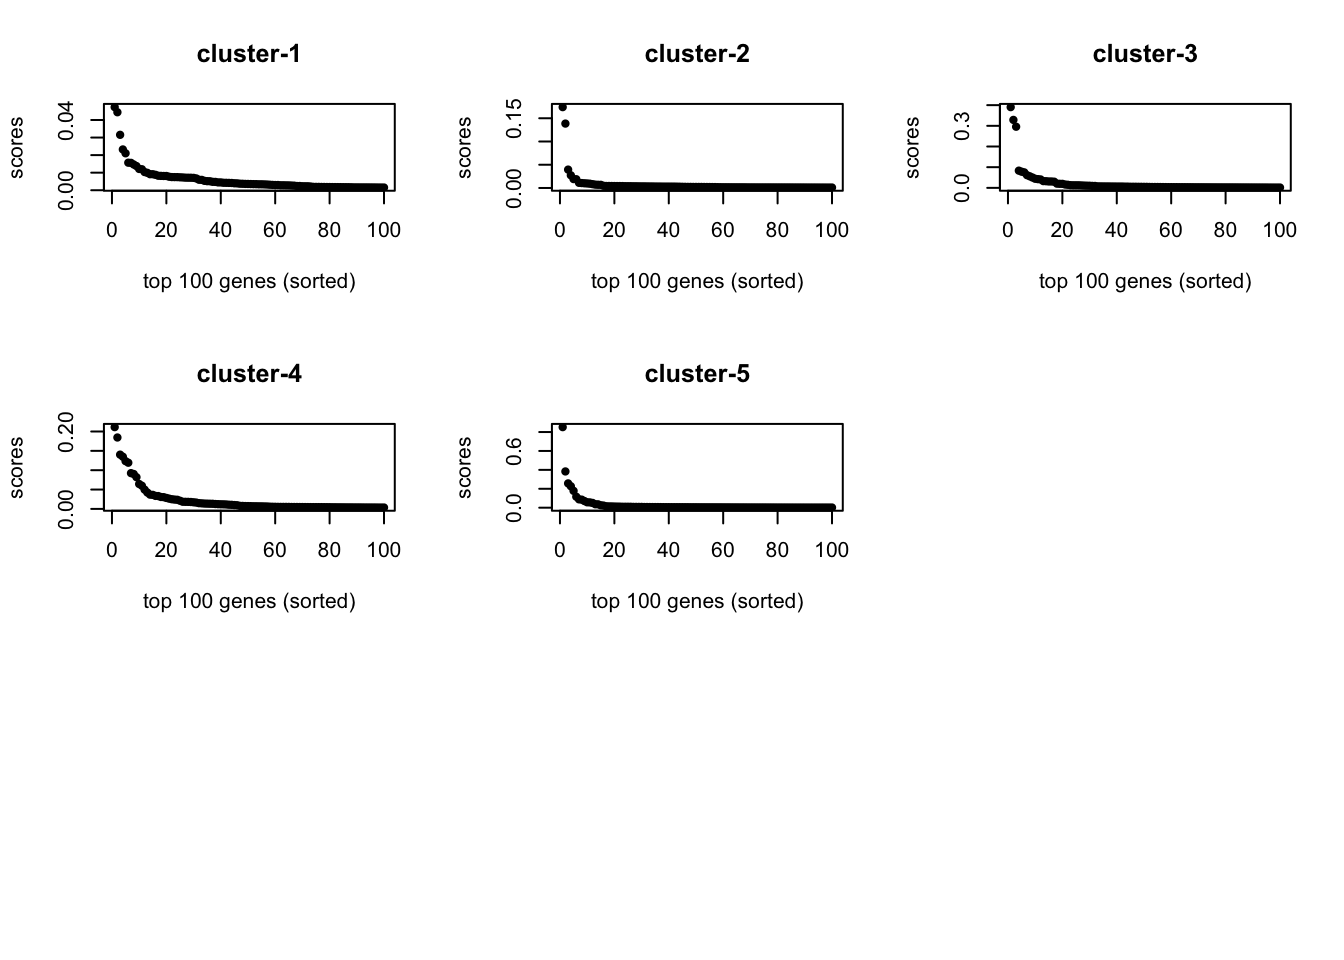
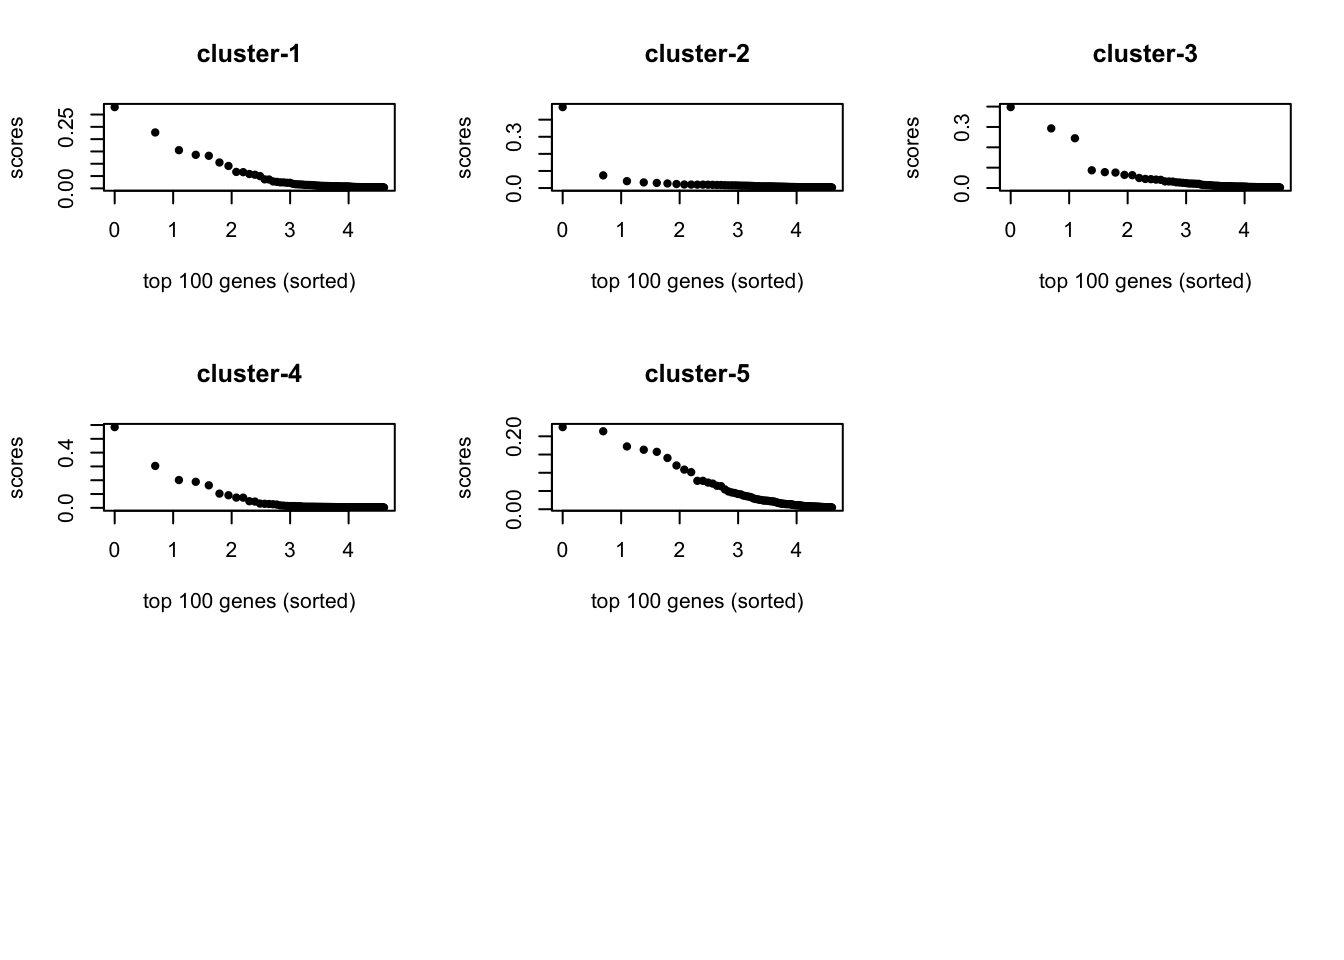
log log scale change

diff --git a/docs/score_analysis_countclust.html b/docs/score_analysis_countclust.html
@@ -308,9 +308,9 @@ div.tocify {
 </div>
 
 
-<div id="pbmc-68k-data-analysis" class="section level2">
-<h2>PBMC 68K data analysis</h2>
-<pre class="r"><code>topic_clus &lt;- get(load(&quot;../output/pbmc_68K_evan_maptpx.rda&quot;))</code></pre>
+<div id="pbmc-sorted-unsorted-68k-data-analysis" class="section level2">
+<h2>PBMC (sorted + unsorted) 68K data analysis</h2>
+<pre class="r"><code>topic_clus &lt;- get(load(&quot;../output/10X_genomics_pooled_sort_unsort_maptpx.rda&quot;))</code></pre>
 <div id="k5" class="section level3">
 <h3>K=5</h3>
 <pre class="r"><code>out &lt;- ExtractTopFeatures(topic_clus[[5]]$theta, top_features = 100, method = &quot;poisson&quot;, options = &quot;max&quot;)
@@ -318,7 +318,7 @@ indices &lt;- out$indices
 scores &lt;- out$scores</code></pre>
 <pre class="r"><code>par(mfrow = c(3,3))
 for(m in 1:5){
-  plot(scores[m,], col=&quot;black&quot;, pch=20, ylab = &quot;scores&quot;, xlab=&quot;top 100 genes (sorted)&quot;,
+  plot(log(1:100), log(scores[m,]+1), col=&quot;black&quot;, pch=20, ylab = &quot;scores&quot;, xlab=&quot;top 100 genes (sorted)&quot;,
        main = paste0(&quot;cluster-&quot;, m))
 }</code></pre>
 <p><img src="score_analysis_countclust_files/figure-html/unnamed-chunk-4-1.png" width="672" /></p>
@@ -330,7 +330,7 @@ indices &lt;- out$indices
 scores &lt;- out$scores</code></pre>
 <pre class="r"><code>par(mfrow = c(3,3))
 for(m in 1:8){
-  plot(scores[m,], col=&quot;black&quot;, pch=20, ylab = &quot;scores&quot;, xlab=&quot;top 100 genes (sorted)&quot;,
+  plot(log(1:100), log(scores[m,]+1), col=&quot;black&quot;, pch=20, ylab = &quot;scores&quot;, xlab=&quot;top 100 genes (sorted)&quot;,
        main = paste0(&quot;cluster-&quot;, m))
 }</code></pre>
 <p><img src="score_analysis_countclust_files/figure-html/unnamed-chunk-6-1.png" width="672" /></p>
@@ -340,12 +340,52 @@ for(m in 1:8){
 <pre class="r"><code>out &lt;- ExtractTopFeatures(topic_clus[[10]]$theta, top_features = 100, method = &quot;poisson&quot;, options = &quot;max&quot;)
 indices &lt;- out$indices
 scores &lt;- out$scores</code></pre>
-<pre class="r"><code>par(mfrow = c(4, 3))
+<pre class="r"><code>par(mfrow = c(4,3))
 for(m in 1:10){
-  plot(scores[m,], col=&quot;black&quot;, pch=20, ylab = &quot;scores&quot;, xlab=&quot;top 100 genes (sorted)&quot;,
+  plot(log(1:100), log(scores[m,]+1), col=&quot;black&quot;, pch=20, ylab = &quot;scores&quot;, xlab=&quot;top 100 genes (sorted)&quot;,
        main = paste0(&quot;cluster-&quot;, m))
 }</code></pre>
 <p><img src="score_analysis_countclust_files/figure-html/unnamed-chunk-8-1.png" width="672" /></p>
+</div>
+</div>
+<div id="pbmc-68k-data-analysis" class="section level2">
+<h2>PBMC 68K data analysis</h2>
+<pre class="r"><code>topic_clus &lt;- get(load(&quot;../output/pbmc_68K_evan_maptpx.rda&quot;))</code></pre>
+<div id="k5-1" class="section level3">
+<h3>K=5</h3>
+<pre class="r"><code>out &lt;- ExtractTopFeatures(topic_clus[[5]]$theta, top_features = 100, method = &quot;poisson&quot;, options = &quot;max&quot;)
+indices &lt;- out$indices
+scores &lt;- out$scores</code></pre>
+<pre class="r"><code>par(mfrow = c(3,3))
+for(m in 1:5){
+  plot(log(1:100), log(scores[m,]+1), col=&quot;black&quot;, pch=20, ylab = &quot;scores&quot;, xlab=&quot;top 100 genes (sorted)&quot;,
+       main = paste0(&quot;cluster-&quot;, m))
+}</code></pre>
+<p><img src="score_analysis_countclust_files/figure-html/unnamed-chunk-11-1.png" width="672" /></p>
+</div>
+<div id="k8-1" class="section level3">
+<h3>K=8</h3>
+<pre class="r"><code>out &lt;- ExtractTopFeatures(topic_clus[[8]]$theta, top_features = 100, method = &quot;poisson&quot;, options = &quot;max&quot;)
+indices &lt;- out$indices
+scores &lt;- out$scores</code></pre>
+<pre class="r"><code>par(mfrow = c(3,3))
+for(m in 1:8){
+  plot(log(1:100), log(scores[m,]+1), col=&quot;black&quot;, pch=20, ylab = &quot;scores&quot;, xlab=&quot;top 100 genes (sorted)&quot;,
+       main = paste0(&quot;cluster-&quot;, m))
+}</code></pre>
+<p><img src="score_analysis_countclust_files/figure-html/unnamed-chunk-13-1.png" width="672" /></p>
+</div>
+<div id="k10-1" class="section level3">
+<h3>K=10</h3>
+<pre class="r"><code>out &lt;- ExtractTopFeatures(topic_clus[[10]]$theta, top_features = 100, method = &quot;poisson&quot;, options = &quot;max&quot;)
+indices &lt;- out$indices
+scores &lt;- out$scores</code></pre>
+<pre class="r"><code>par(mfrow = c(4, 3))
+for(m in 1:10){
+  plot(log(1:100), log(scores[m,]+1), col=&quot;black&quot;, pch=20, ylab = &quot;scores&quot;, xlab=&quot;top 100 genes (sorted)&quot;,
+       main = paste0(&quot;cluster-&quot;, m))
+}</code></pre>
+<p><img src="score_analysis_countclust_files/figure-html/unnamed-chunk-15-1.png" width="672" /></p>
 </div>
 </div>
 <div id="aggregated-mcc-analysis" class="section level2">
@@ -357,10 +397,10 @@ indices &lt;- out$indices
 scores &lt;- out$scores</code></pre>
 <pre class="r"><code>par(mfrow = c(2,2))
 for(m in 1:3){
-  plot(scores[m,], col=&quot;black&quot;, pch=20, ylab = &quot;scores&quot;, xlab=&quot;top 100 genes (sorted)&quot;,
+  plot(log(1:100), log(scores[m,]+1), col=&quot;black&quot;, pch=20, ylab = &quot;scores&quot;, xlab=&quot;top 100 genes (sorted)&quot;,
        main = paste0(&quot;cluster-&quot;, m))
 }</code></pre>
-<p><img src="score_analysis_countclust_files/figure-html/unnamed-chunk-11-1.png" width="672" /></p>
+<p><img src="score_analysis_countclust_files/figure-html/unnamed-chunk-18-1.png" width="672" /></p>
 </div>
 <div id="k6" class="section level3">
 <h3>K=6</h3>
@@ -369,10 +409,10 @@ indices &lt;- out$indices
 scores &lt;- out$scores</code></pre>
 <pre class="r"><code>par(mfrow = c(3,2))
 for(m in 1:6){
-  plot(scores[m,], col=&quot;black&quot;, pch=20, ylab = &quot;scores&quot;, xlab=&quot;top 100 genes (sorted)&quot;,
+  plot(log(1:100), log(scores[m,]+1), col=&quot;black&quot;, pch=20, ylab = &quot;scores&quot;, xlab=&quot;top 100 genes (sorted)&quot;,
        main = paste0(&quot;cluster-&quot;, m))
 }</code></pre>
-<p><img src="score_analysis_countclust_files/figure-html/unnamed-chunk-13-1.png" width="672" /></p>
+<p><img src="score_analysis_countclust_files/figure-html/unnamed-chunk-20-1.png" width="672" /></p>
 </div>
 </div>
 
